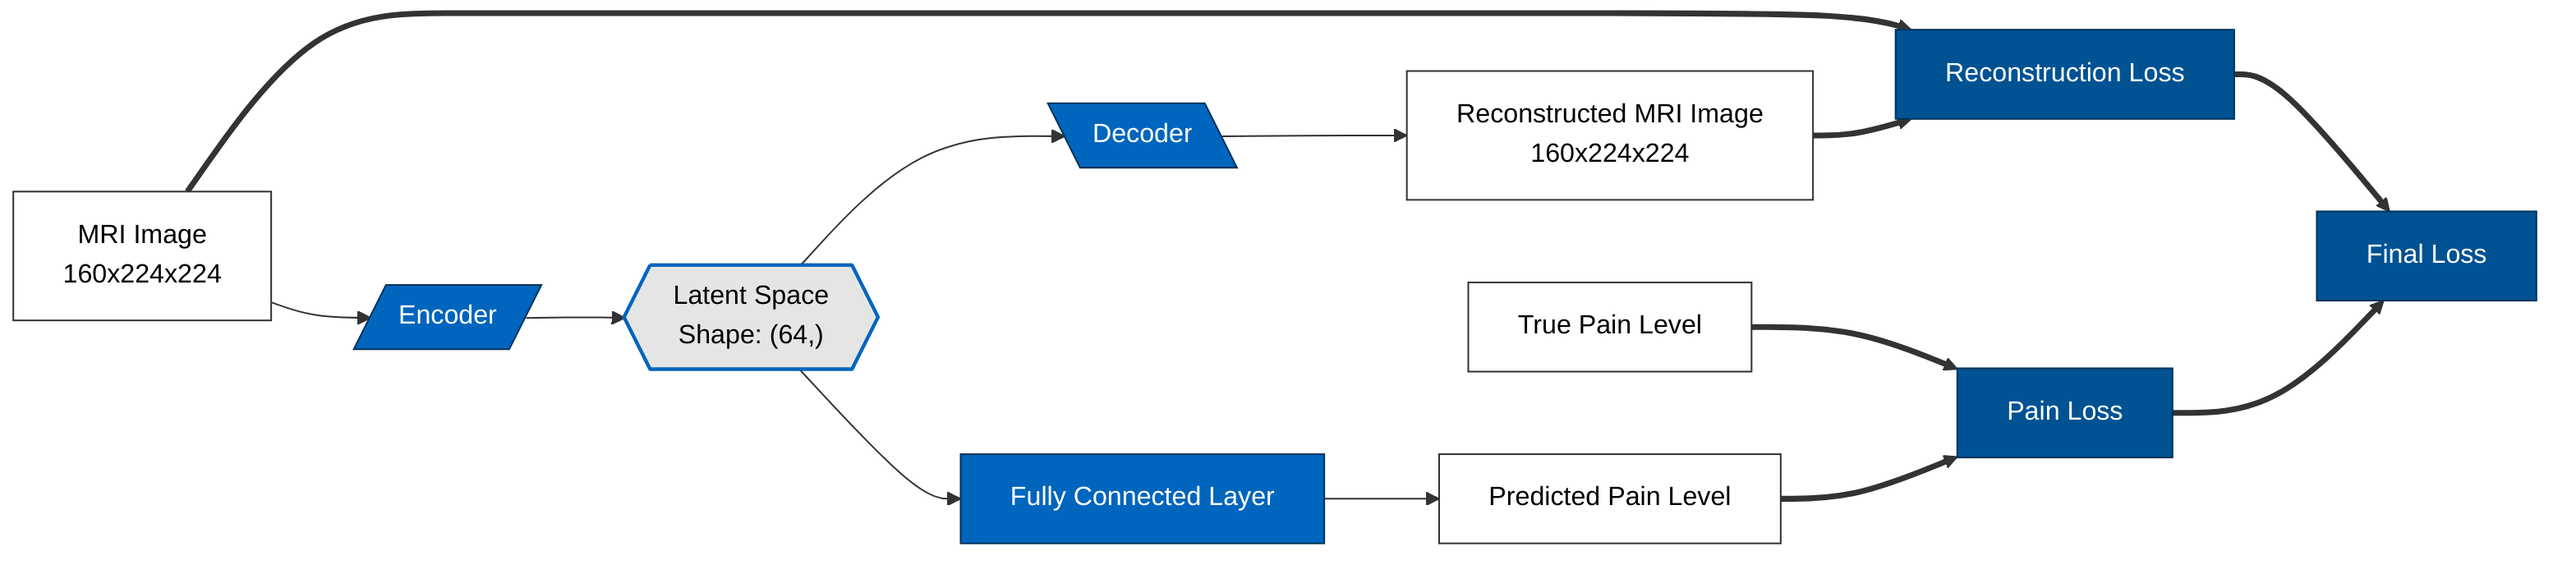
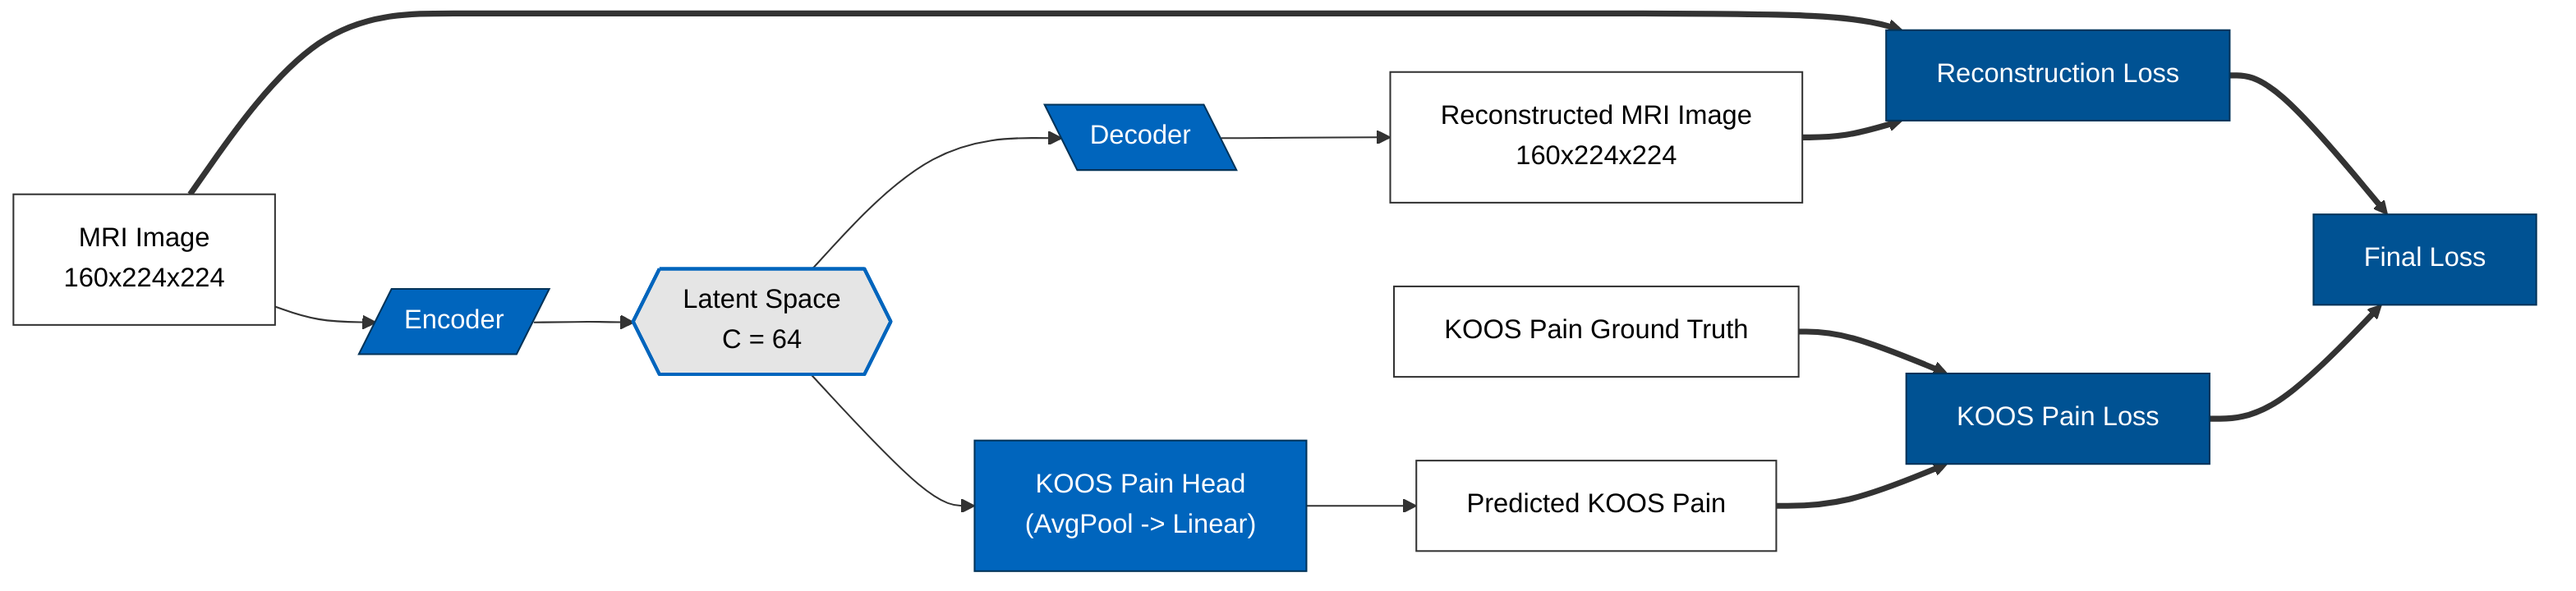
chore: Updated architectural files.

diff --git a/architecture_mermaid_files/autoencoder_pain/autoencoder_pain.md b/architecture_mermaid_files/autoencoder_pain/autoencoder_pain.md
@@ -23,19 +23,19 @@ graph LR
     Output["Reconstructed MRI Image<br/>160x224x224"]
     
     %% Latent Space (Bottleneck)
-    Latent{{"Latent Space<br/>Shape: (64,)"}}
+    Latent{{"Latent Space<br/> C = 64"}}
 
     %% Fully Connected Layer
-    FC["Fully Connected Layer"]
+    FC["KOOS Pain Head<br/>(AvgPool -> Linear)"]
 
     %% Predicted Pain Layer
-    Pain["Predicted Pain Level"]
+    Pain["Predicted KOOS Pain"]
 
     %% Real Pain Layer
-    TruePain["True Pain Level"]
+    TruePain["KOOS Pain Ground Truth"]
 
     %% Pain Loss
-    PainLoss["Pain Loss"]
+    PainLoss["KOOS Pain Loss"]
 
     %% Reconstruction Loss
     ReconLoss["Reconstruction Loss"]
